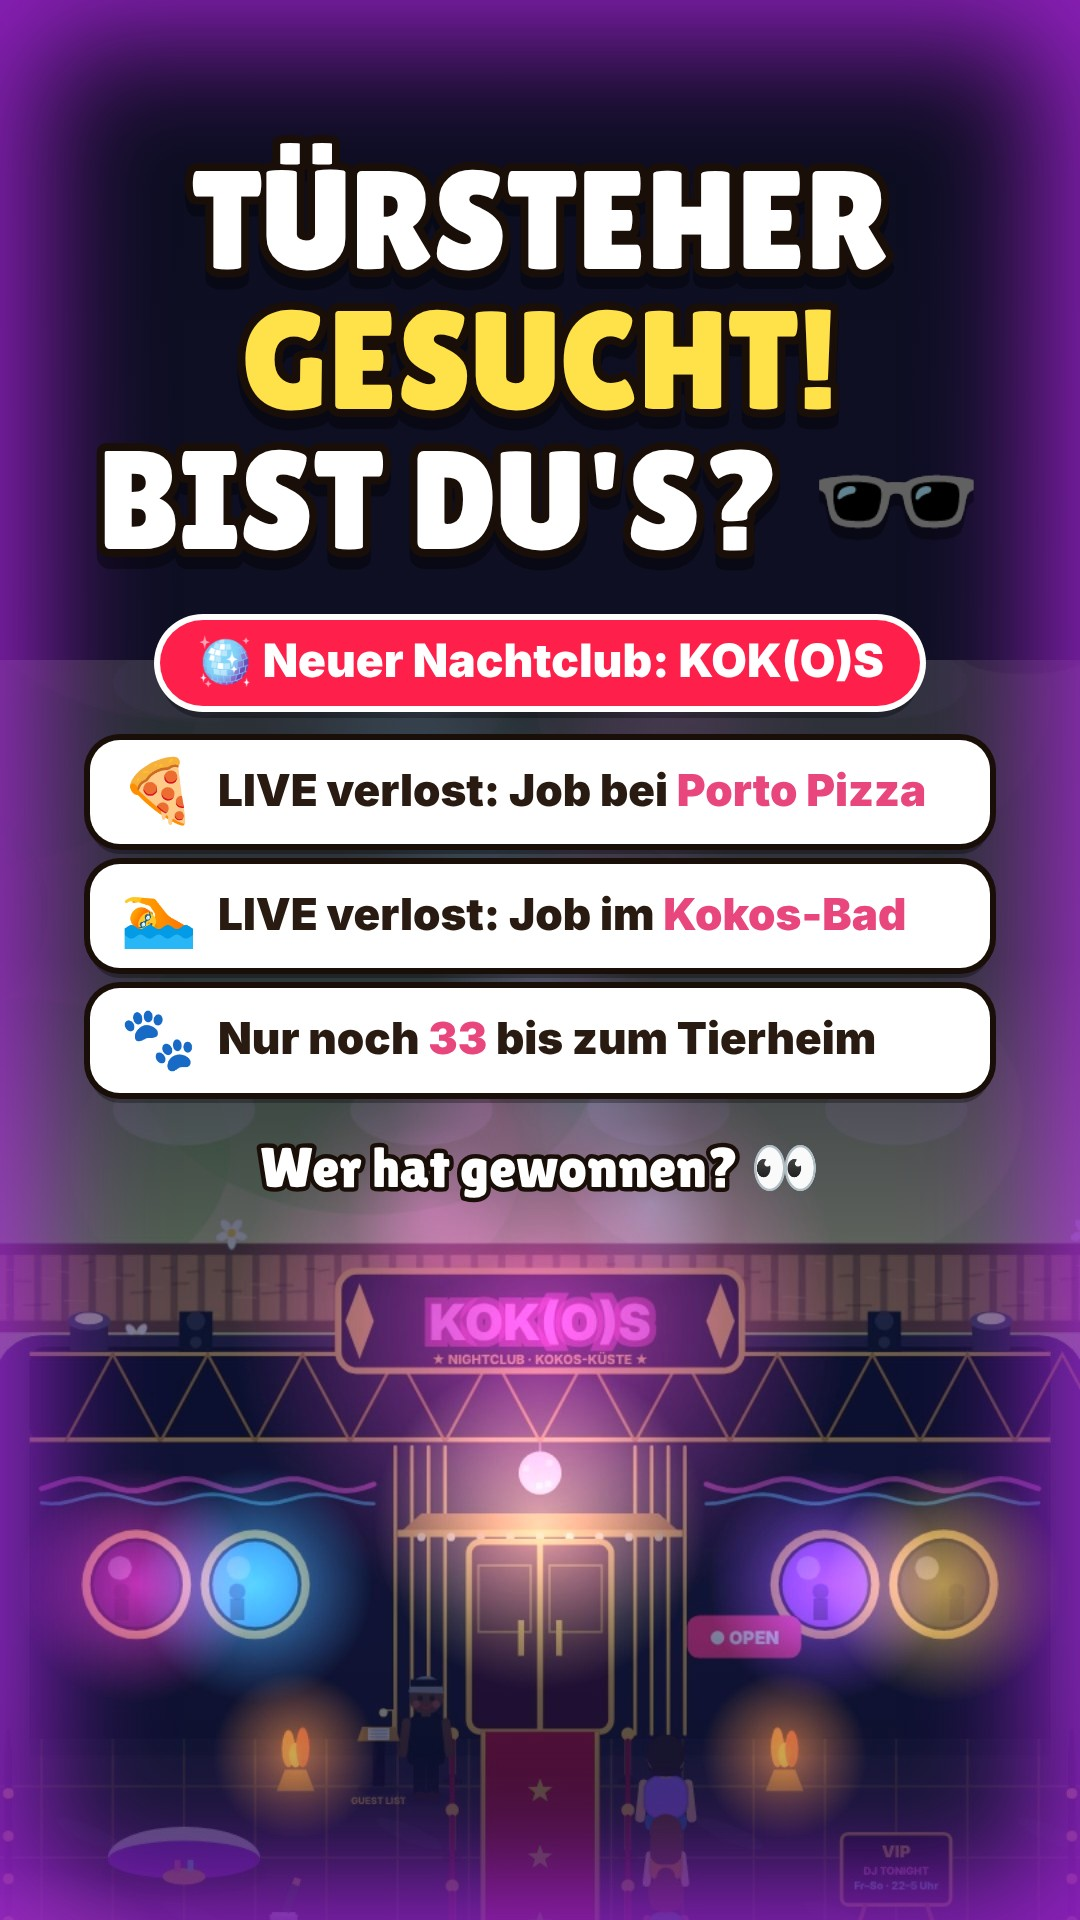
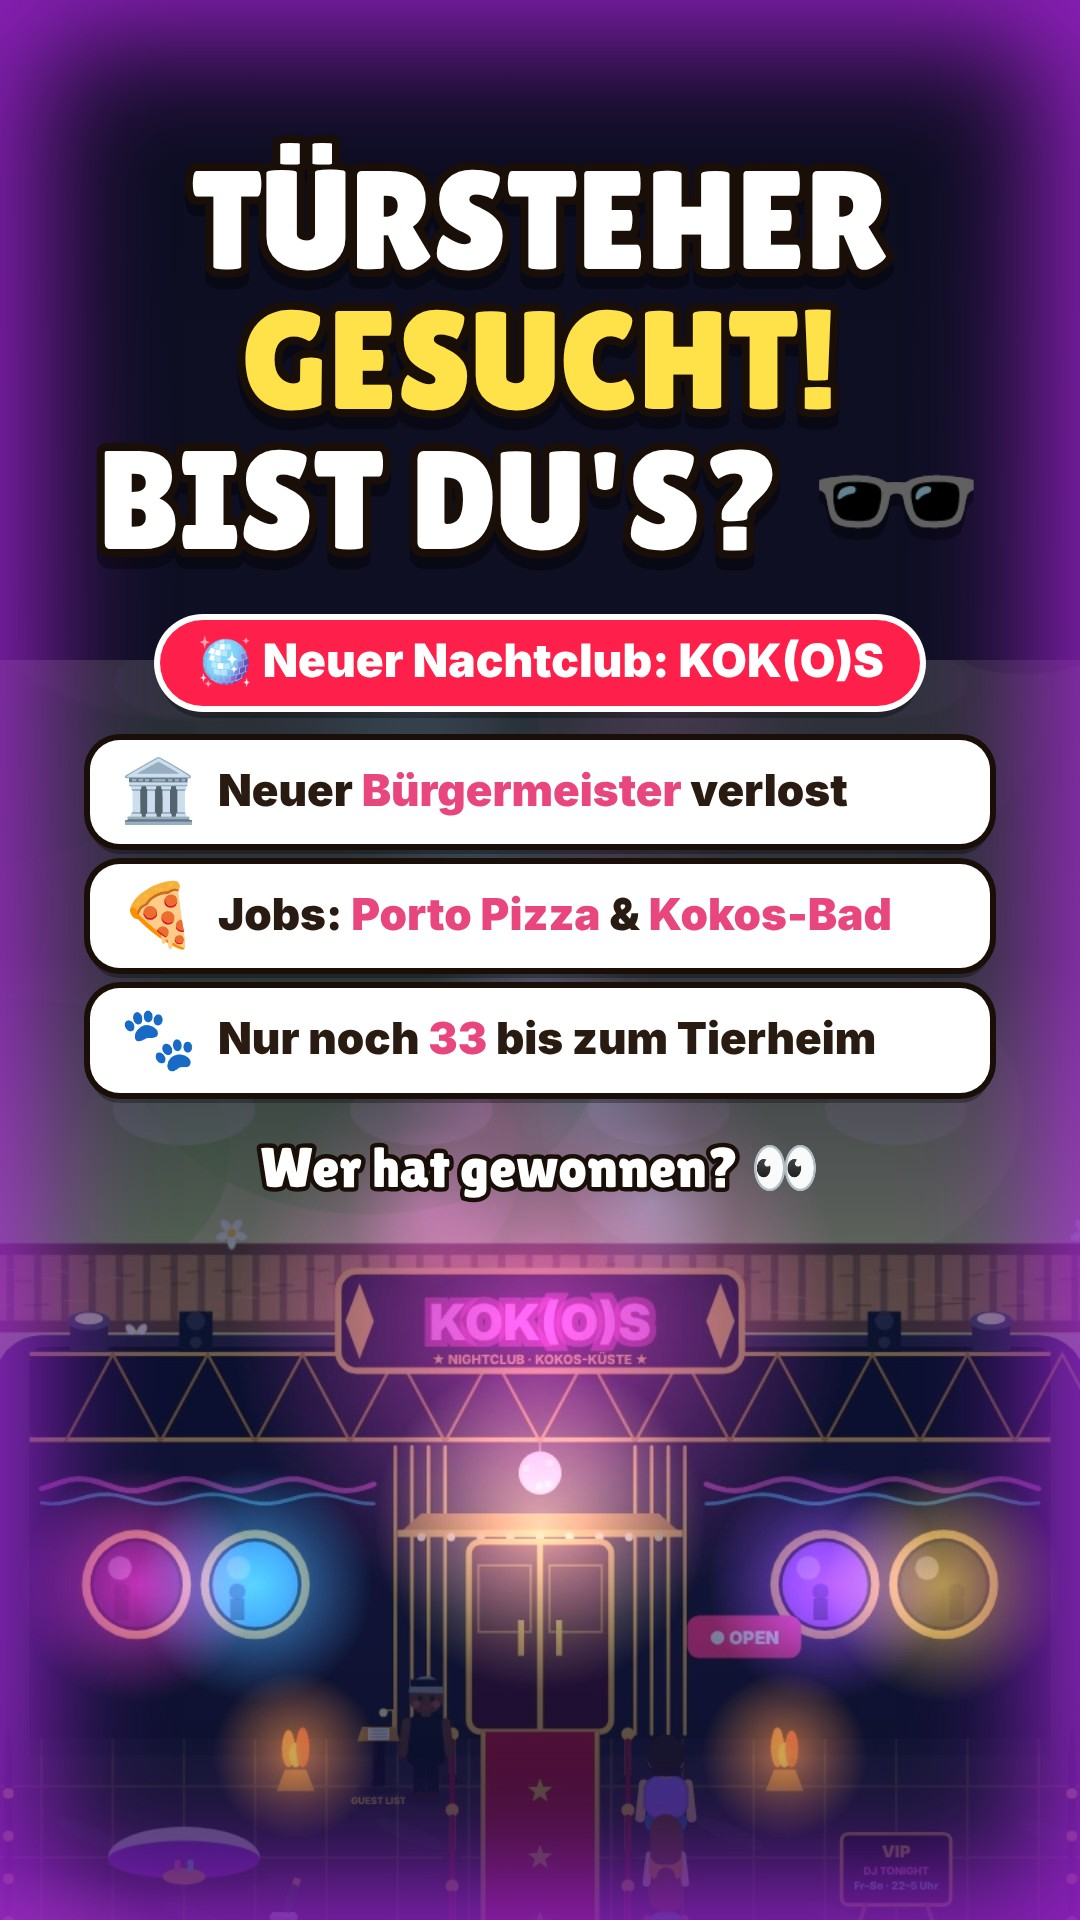
Tag 9: Cover und Beschreibung mit Ämter-Verlosung
Claude-Session: https://claude.ai/code/session_01McNdgWwqfWZ56Gqk3h71JF

Changed region(s): [[0.0917, 0.375, 0.8556, 0.5], [0.2139, 0.4062, 0.8556, 0.4375]]

diff --git a/videos/muscheltal-tag9/cover/thumb.html b/videos/muscheltal-tag9/cover/thumb.html
@@ -24,8 +24,8 @@ body{width:1080px;height:1920px;overflow:hidden;position:relative;font-family:In
 <div class="c" id="h">TÜRSTEHER<br><b>GESUCHT!</b><br>BIST DU'S? 🕶</div>
 <div class="c" id="sub">🪩 Neuer Nachtclub: KOK(O)S</div>
 <div class="c" id="list">
- <div class="it"><i>🍕</i><div>LIVE verlost: Job bei <span>Porto Pizza</span></div></div>
- <div class="it"><i>🏊</i><div>LIVE verlost: Job im <span>Kokos-Bad</span></div></div>
+ <div class="it"><i>🏛</i><div>Neuer <span>Bürgermeister</span> verlost</div></div>
+ <div class="it"><i>🍕</i><div>Jobs: <span>Porto Pizza</span> & <span>Kokos-Bad</span></div></div>
  <div class="it"><i>🐾</i><div>Nur noch <span>33</span> bis zum Tierheim</div></div>
 </div>
 <div class="c" id="ft">Wer hat gewonnen? 👀</div>

diff --git a/videos/muscheltal-tag9/BESCHREIBUNG.md b/videos/muscheltal-tag9/BESCHREIBUNG.md
@@ -1,6 +1,6 @@
 # Muschel-Tal – Tag 9 · Beschreibung
 
-**Cover:** `renders/cover.jpg` (Vorlage `cover/thumb.html`, Layout wie Tag 8, lila Leuchtrand) – „TÜRSTEHER GESUCHT! BIST DU'S? 🕶“, „🪩 Neuer Nachtclub: KOK(O)S“, Karten „LIVE verlost: Job bei Porto Pizza“, „LIVE verlost: Job im Kokos-Bad“, „Nur noch 33 bis zum Tierheim“, „Wer hat gewonnen? 👀“. Hintergrund: der KOK(O)S nachts mit Neon-Schild und roter Teppich-Schlange (Homepage-Aufnahme).
+**Cover:** `renders/cover.jpg` (Vorlage `cover/thumb.html`, Layout wie Tag 8, lila Leuchtrand) – „TÜRSTEHER GESUCHT! BIST DU'S? 🕶“, „🪩 Neuer Nachtclub: KOK(O)S“, Karten „Neuer Bürgermeister verlost“, „Jobs: Porto Pizza & Kokos-Bad“, „Nur noch 33 bis zum Tierheim“, „Wer hat gewonnen? 👀“. Hintergrund: der KOK(O)S nachts mit Neon-Schild und roter Teppich-Schlange (Homepage-Aufnahme).
 
 ## Hauptversion (zum Posten)
 Türsteher gesucht! 🕶 Bist du's? 👀
@@ -19,6 +19,8 @@ Glückwunsch, ihr arbeitet jetzt hier! 🎉
 🏝 Das ist Muschel-Tal: Wer mir folgt, bekommt eine Hütte mit seinem @Namen – schon 767 Bewohner!
 🐾 Nur noch 33 bis zum Tierheim Pfotenkuss!
 🔴 Und wenn ich LIVE bin: komm rein und bau mit an der LIVE-Insel!
+
+🍀 Folg mir – vielleicht gewinnst du beim nächsten Mal!
 
 #muscheltal #fyp #fürdich #foryou #viral
 
